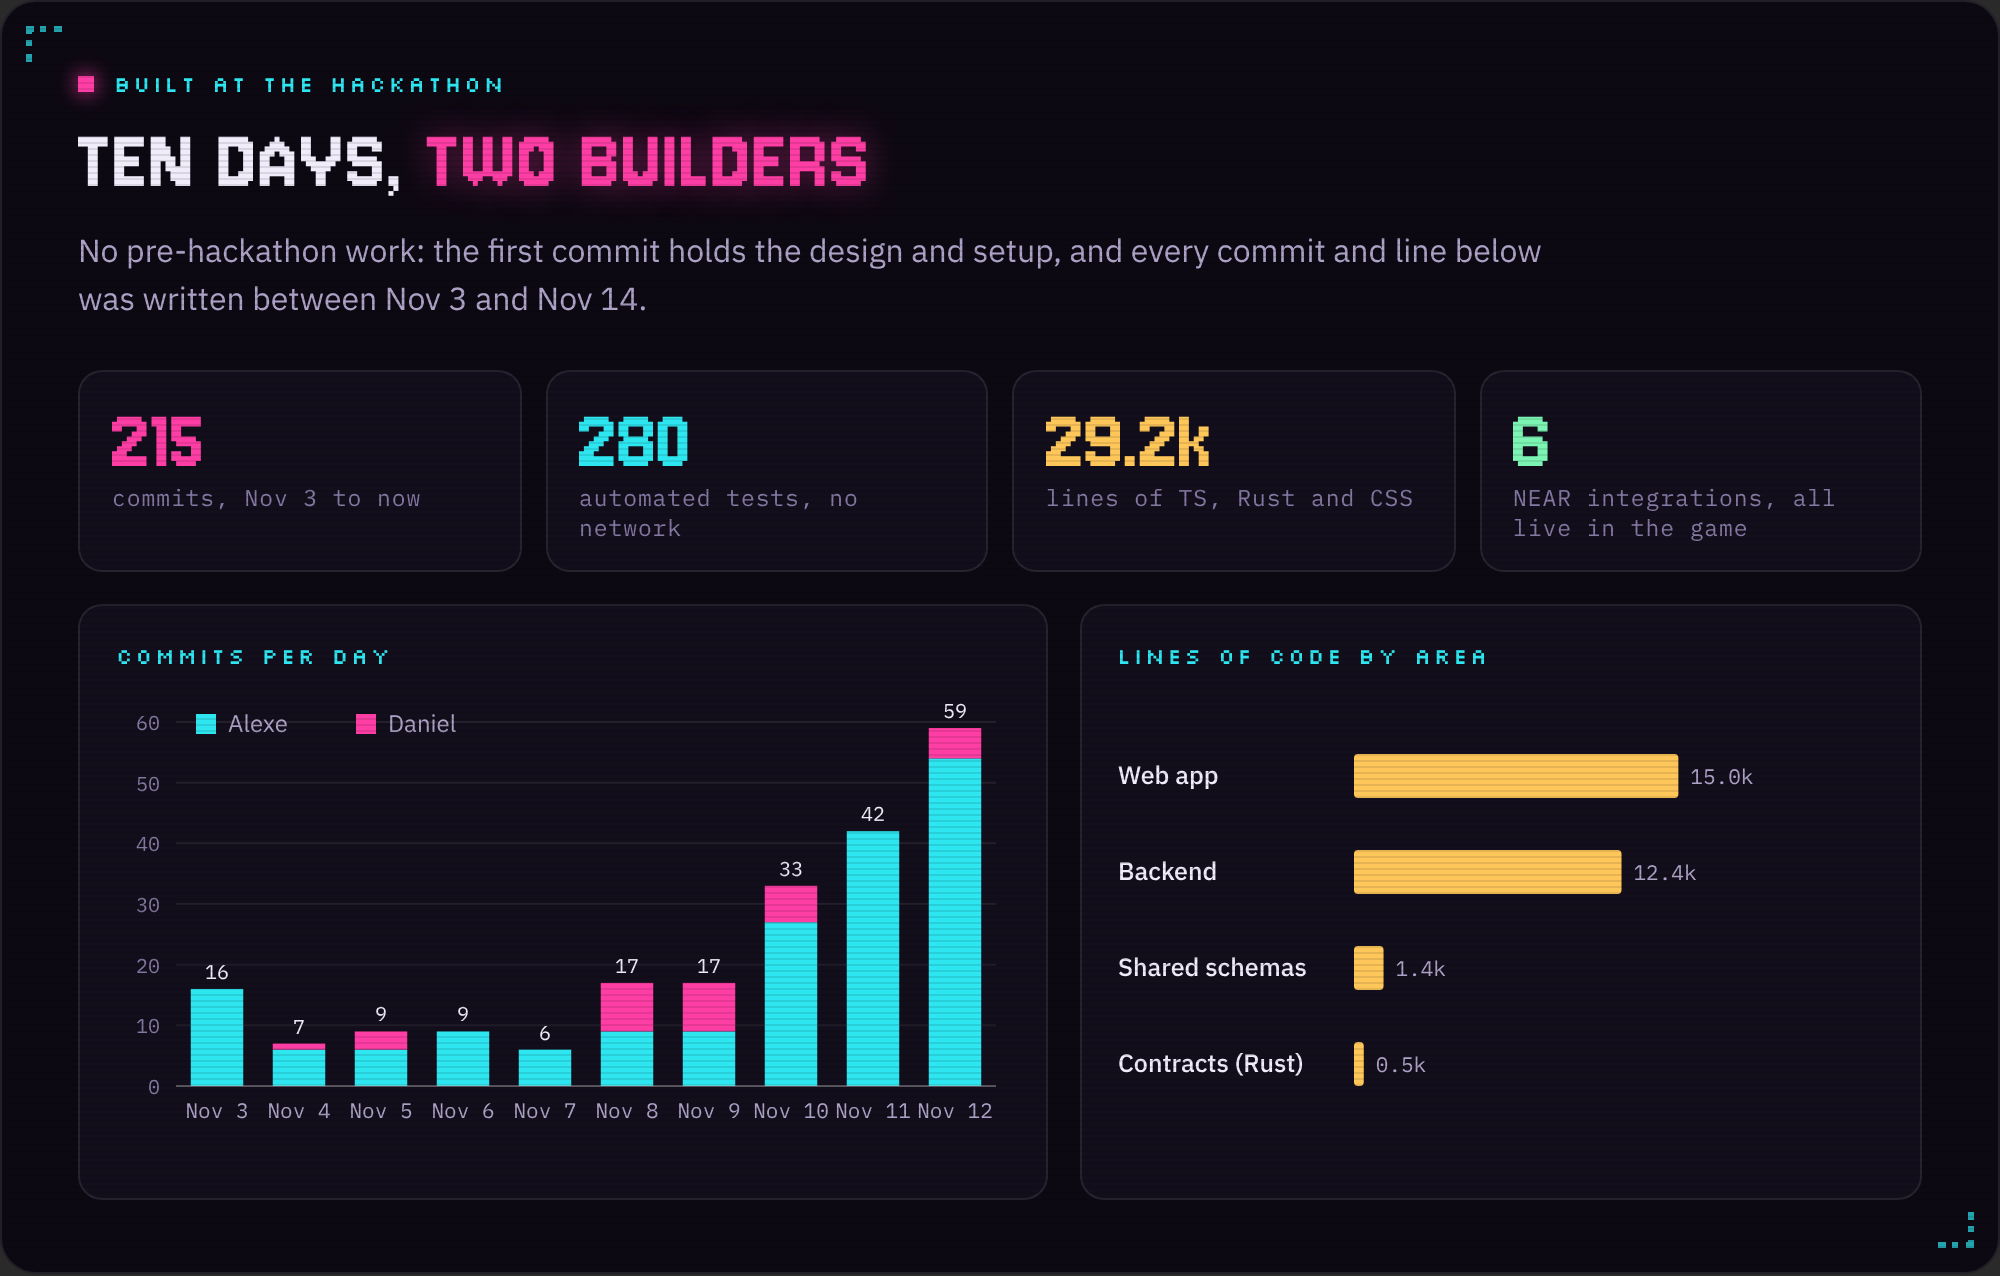
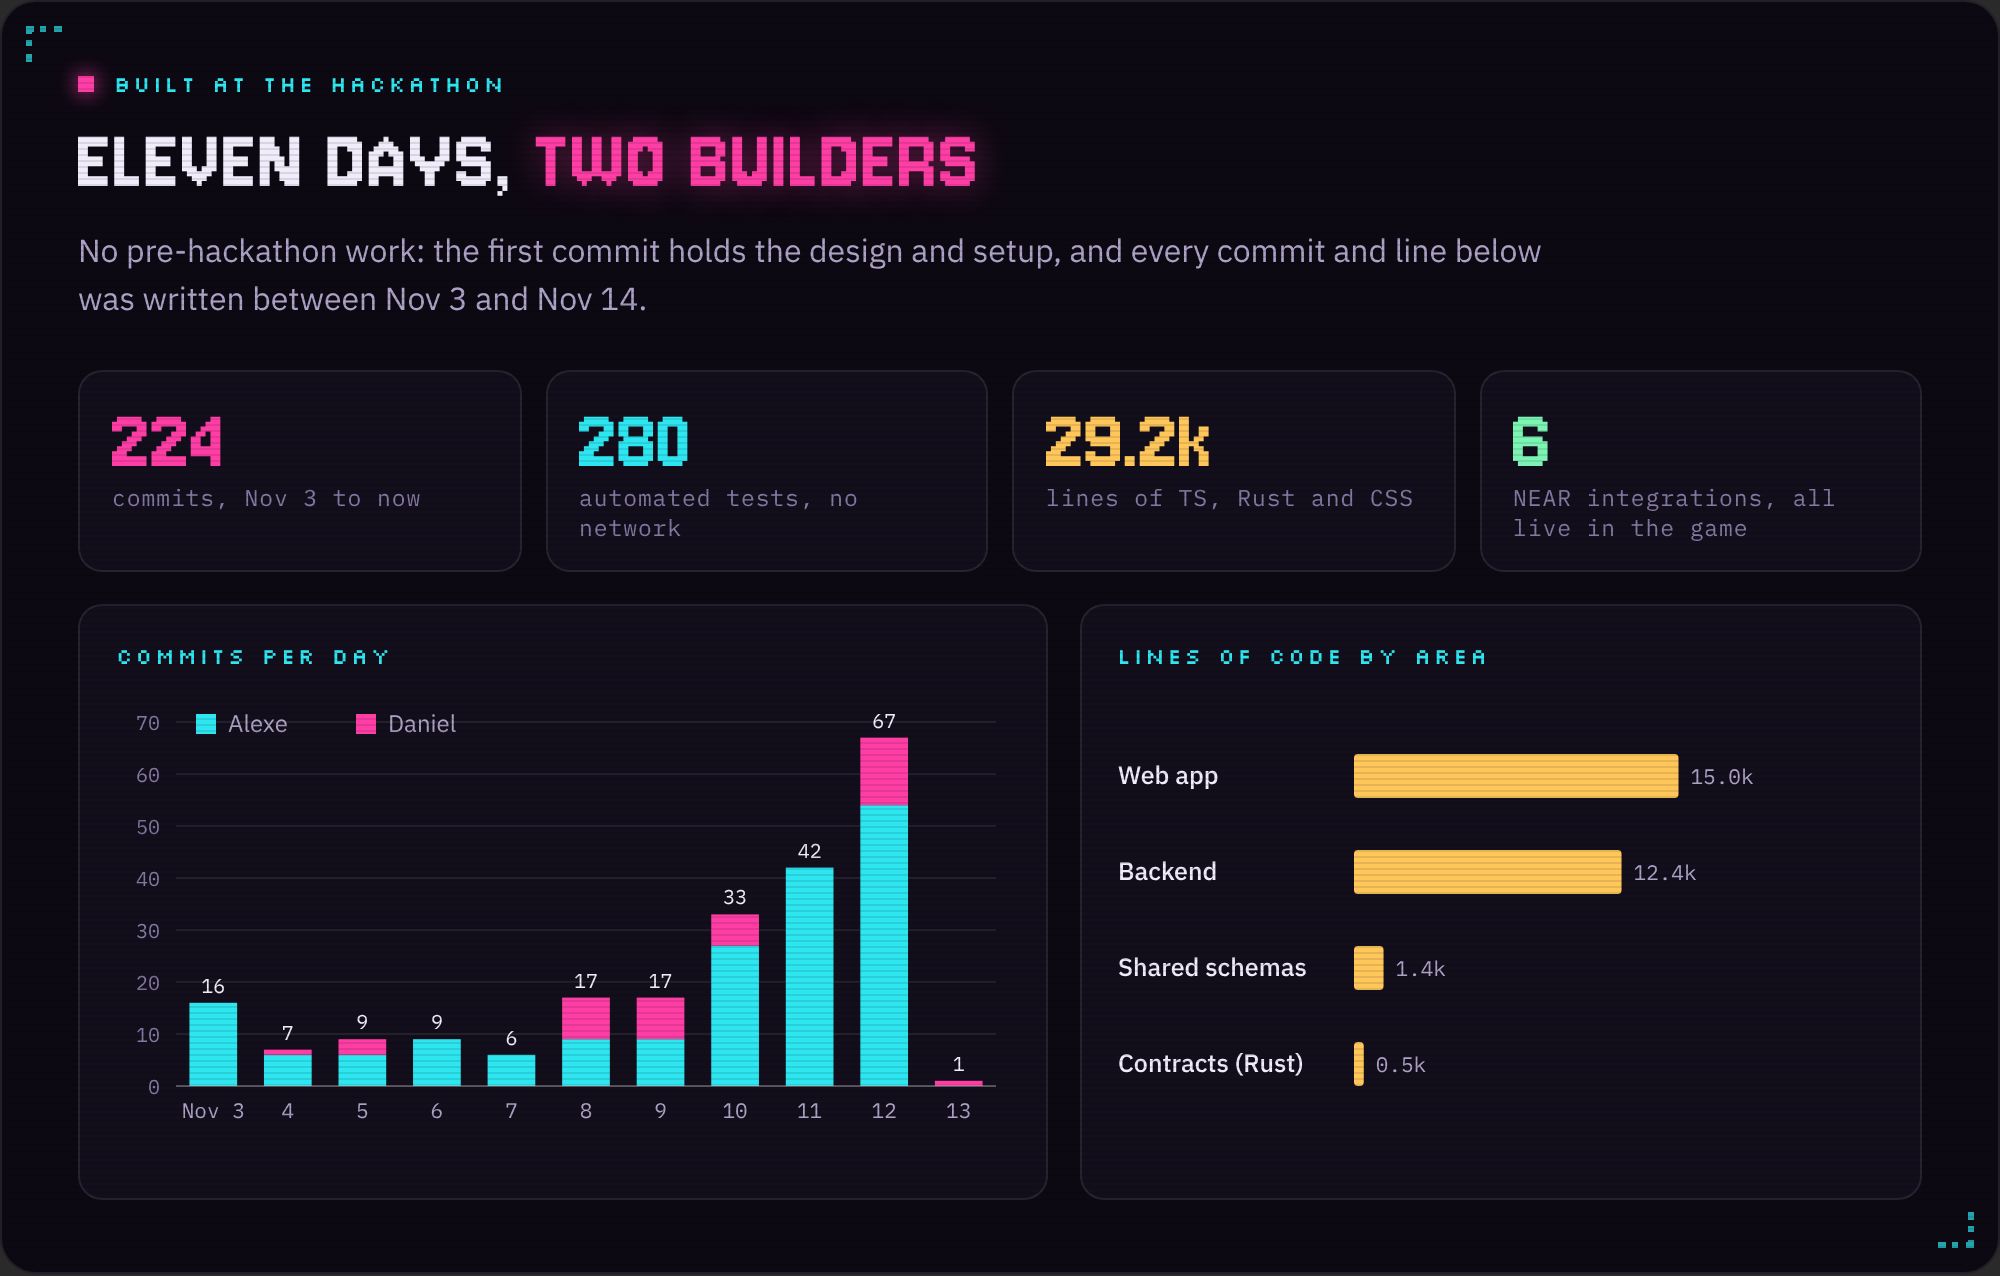
README: current build numbers, team, website and other-chain disclosure
The hackathon checklist asks for other-chain integrations and the team to be
listed; the build chart now counts all 224 commits through Nov 13.

diff --git a/README.md b/README.md
@@ -16,6 +16,8 @@
 
 **Tracks:** <a href="#built-for-six-tracks">09 Games With Real Economies · 04 Autonomous Business · 07 Agent Economy · 12 Social Money · 08 Real-World Money · 01 Unstoppable DeFi</a>
 
+**Website:** [playvibecity.com](https://playvibecity.com) · **Demo video:** [our post on X](https://x.com/vibecitynear/status/2121544378112213232)
+
 
 
 
@@ -260,7 +262,9 @@ npm run build
 
 **Third-party agent skills.** [`docker/skills/`](docker/skills) bundles skills the agents can use (OutLayer's custody and connector skills, NEAR, CoinGecko, Trail of Bits, Solana Foundation and others), each under its own license with its origin listed in [`docker/skills/SOURCES`](docker/skills/SOURCES). Only `docker/skills/vibe-city` and `docker/skills/vibe-city-models` are ours.
 
-<!-- TEAM: fill in names and handles once confirmed -->
+**Other chains.** The optional side quests reach beyond NEAR, always through the company's OutLayer wallet and under the owner's caps: the Trading Desk trades perpetuals on Hyperliquid, the Prediction Desk trades on Polymarket (Polygon), and Treasury Ops swaps and rebalances across chains through NEAR Intents. The main quest line, from the first hire to the IPO, runs on NEAR only.
+
+**Team.** Alexe Spataru ([@urataps](https://github.com/urataps)) and Daniel Morosan ([@danielgmorosan](https://github.com/danielgmorosan)). On X: [@vibecitynear](https://x.com/vibecitynear).
 
 ## License
 
